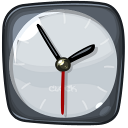
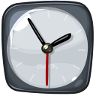
Game UI Customization

diff --git a/src/scenes/setAnalogGame.js b/src/scenes/setAnalogGame.js
@@ -23,18 +23,41 @@ var setAnalogGameLayer = cc.Layer.extend({
 
         var size = cc.winSize;
         
+        var bg = new cc.Sprite.create(res.bg_analogGame);
+        bg.x = size.width/2;
+        bg.y = size.height/2;
+        this.addChild(bg, -10);
+        
         this.clockA = new analogClock();
-        this.clockA.x = size.width/2;
-        this.clockA.y = size.height/2;
-        this.clockA.scale = 0.5;
+        this.clockA.x = 610;
+        this.clockA.y = 300;
+        this.clockA.scale = 0.9;
         this.clockA.addObserver(this);
         this.clockA.enableTouch();
         this.addChild(this.clockA);
         
         this.clockD = new digitalClock();
-        this.clockD.x = size.width/2;
-        this.clockD.y = size.height/4;
+        this.clockD.x = 125;
+        this.clockD.y = 420;
         this.addChild(this.clockD);
+        
+        var backBtn = new cc.MenuItemImage(
+            res.back_btn,
+            res.back_btn,
+            function () {
+                cc.director.runScene(new mainScene());
+            }, this);
+        backBtn.attr({
+            x: 40 ,
+            y: 560,
+            anchor2: 0.5,
+            anchorY: 0.5
+        });
+
+        var menu = new cc.Menu(backBtn);
+        menu.x = 0;
+        menu.y = 0;
+        this.addChild(menu, 1);
         
         this.resetLevel();
         

diff --git a/src/objects/analogClock.js b/src/objects/analogClock.js
@@ -2,8 +2,8 @@ var analogClock = cc.Sprite.extend({
     observers: [],
     minuteTickCreate: function(){
         var that = this;
-        var sprite = cc.Sprite.create(res.minuteTick);
-        sprite.setAnchorPoint(new cc.Point(0.5,0));
+        var sprite = cc.Sprite.create(res.minuteTick_main);
+        sprite.setAnchorPoint(new cc.Point(0.5,0.25));
         sprite.updateTimeOnAngle = function(angle){
             that.setMinute(timeConverter.degToMinutes(angle));
         };
@@ -19,8 +19,8 @@ var analogClock = cc.Sprite.extend({
     },
     hourTickCreate: function(){
         var that = this;
-        var sprite = cc.Sprite.create(res.hourTick);
-        sprite.setAnchorPoint(new cc.Point(0.5,0));
+        var sprite = cc.Sprite.create(res.hourTick_main);
+        sprite.setAnchorPoint(new cc.Point(0.5,0.25));
         sprite.updateTimeOnAngle = function(angle){
             that.setHour(timeConverter.degToHours(angle));
         };
@@ -40,7 +40,7 @@ var analogClock = cc.Sprite.extend({
     minuteTick: null,
     ctor: function(){
         this._super();
-        var clockFrame = cc.Sprite.create(res.clock);
+        var clockFrame = cc.Sprite.create(res.clock_main);
         this.addChild(clockFrame, 0);
         
         this.addChild(this.minuteTickCreate(), 1);

diff --git a/src/scenes/mainScene.js b/src/scenes/mainScene.js
@@ -8,16 +8,21 @@ var mainLayer = cc.Layer.extend({
 
         var size = cc.winSize;
         
+        var bg = new cc.Sprite.create(res.bg);
+        bg.x = size.width/2;
+        bg.y = size.height/2;
+        this.addChild(bg, -10);
+        
         var clock = new analogClock();
-        clock.x = size.width/2;
-        clock.y = size.height/2;
+        clock.x = size.width/2 - 0;
+        clock.y = size.height/2 + 120;
         clock.scale = 0.5;
         clock.setTime(new Date());
         this.addChild(clock);
         
         var clockD = new digitalClock();
-        clockD.x = size.width/2;
-        clockD.y = size.height/4;
+        clockD.x = 170;
+        clockD.y = 520;
         
         clockD.setTime(new Date());
         this.addChild(clockD);
@@ -29,10 +34,11 @@ var mainLayer = cc.Layer.extend({
             function () {
                 that.goToGame(setAnalogGame)
             }, this);
+        analogClockBtn.setRotation(11)
         analogClockBtn.attr({
-            x: 130 ,
-            y: size.height / 2 ,
-            anchorX: 0.5,
+            x: 792 ,
+            y: 205,
+            anchor2: 0.5,
             anchorY: 0.5
         });
 

diff --git a/src/resource.js b/src/resource.js
@@ -1,10 +1,16 @@
 var res = {
+    bg: "res/intro_background.jpg",
+    bg_analogGame: "res/bg_analogGame.jpg",
+    back_btn: "res/back_btn.png",
     HelloWorld_png : "res/HelloWorld.png",
     CloseNormal_png : "res/CloseNormal.png",
     CloseSelected_png : "res/CloseSelected.png",
     clock: "res/analog_clock_frame.png",
+    clock_main: "res/analog_clock_frame_1.png",
     minuteTick: "res/minute.png",
     hourTick: "res/hour.png",
+    minuteTick_main: "res/minute_tick_1.png",
+    hourTick_main: "res/hour_tick_1.png",
     analogClockIcon: "res/analogClockIcon.png"
 };
 

diff --git a/main.js b/main.js
@@ -49,7 +49,7 @@
 
 cc.game.onStart = function(){
     cc.view.adjustViewPort(true);
-    cc.view.setDesignResolutionSize(800, 450, cc.ResolutionPolicy.SHOW_ALL);
+    cc.view.setDesignResolutionSize(960, 600, cc.ResolutionPolicy.SHOW_ALL);
     cc.view.resizeWithBrowserSize(true);
     //load resources
     cc.LoaderScene.preload(g_resources, function () {
